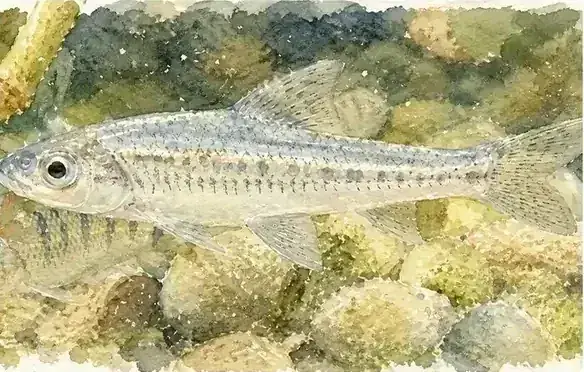
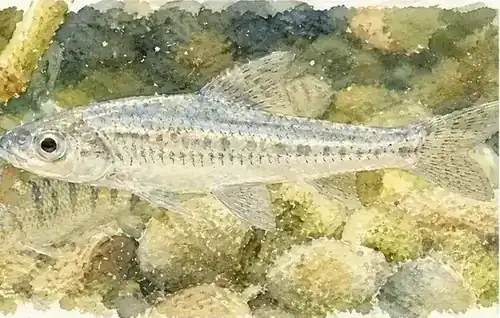
perf(all): aggressive compression and resizing across all inner pages, articles, and backgrounds

diff --git a/action.html b/action.html
@@ -7,7 +7,7 @@
     <link rel="preload" as="image" href="assets/v2/inner_bg_action.webp" type="image/webp">
     <link rel="preload" as="image" href="assets/v2/inner_title_action.webp" type="image/webp" fetchpriority="high">
     <link rel="icon" href="favicon.ico" type="image/x-icon">
-    <link rel="stylesheet" href="style.css?v=12">
+    <link rel="stylesheet" href="style.css?v=13">
 </head>
 <body class="inner-page action-bg">
     <!-- Full-bleed background layer -->

diff --git a/inner.html b/inner.html
@@ -7,7 +7,7 @@
     <link rel="preload" as="image" href="assets/v2/inner_bg.webp" type="image/webp">
     <link rel="preload" as="image" href="assets/v2/inner_title.webp" type="image/webp" fetchpriority="high">
     <link rel="icon" href="favicon.ico" type="image/x-icon">
-    <link rel="stylesheet" href="style.css?v=12">
+    <link rel="stylesheet" href="style.css?v=13">
 </head>
 <body class="inner-page">
     <!-- Full-bleed background layer with temple watercolor -->

diff --git a/collab.html b/collab.html
@@ -7,7 +7,7 @@
     <link rel="preload" as="image" href="assets/v2/inner_bg_clean.webp" type="image/webp">
     <link rel="preload" as="image" href="assets/v2/inner_title_collab.webp" type="image/webp" fetchpriority="high">
     <link rel="icon" href="favicon.ico" type="image/x-icon">
-    <link rel="stylesheet" href="style.css?v=12">
+    <link rel="stylesheet" href="style.css?v=13">
 </head>
 <body class="inner-page clean-bg">
     <!-- Full-bleed background layer -->

diff --git a/eco.html b/eco.html
@@ -7,7 +7,7 @@
     <link rel="preload" as="image" href="assets/v2/inner_bg_clean.webp" type="image/webp">
     <link rel="preload" as="image" href="assets/v2/inner_title_eco.webp" type="image/webp" fetchpriority="high">
     <link rel="icon" href="favicon.ico" type="image/x-icon">
-    <link rel="stylesheet" href="style.css?v=12">
+    <link rel="stylesheet" href="style.css?v=13">
 </head>
 <body class="inner-page clean-bg">
     <!-- Full-bleed background layer -->

diff --git a/index.html b/index.html
@@ -7,7 +7,7 @@
     <link rel="preload" as="image" href="assets/v2/home_bg.webp" type="image/webp">
     <link rel="preload" as="image" href="assets/v2/title_main.webp" type="image/webp" fetchpriority="high">
     <link rel="icon" href="favicon.ico" type="image/x-icon">
-    <link rel="stylesheet" href="style.css?v=12">
+    <link rel="stylesheet" href="style.css?v=13">
 </head>
 <body class="home-page">
     <!-- Full-bleed background layer -->
